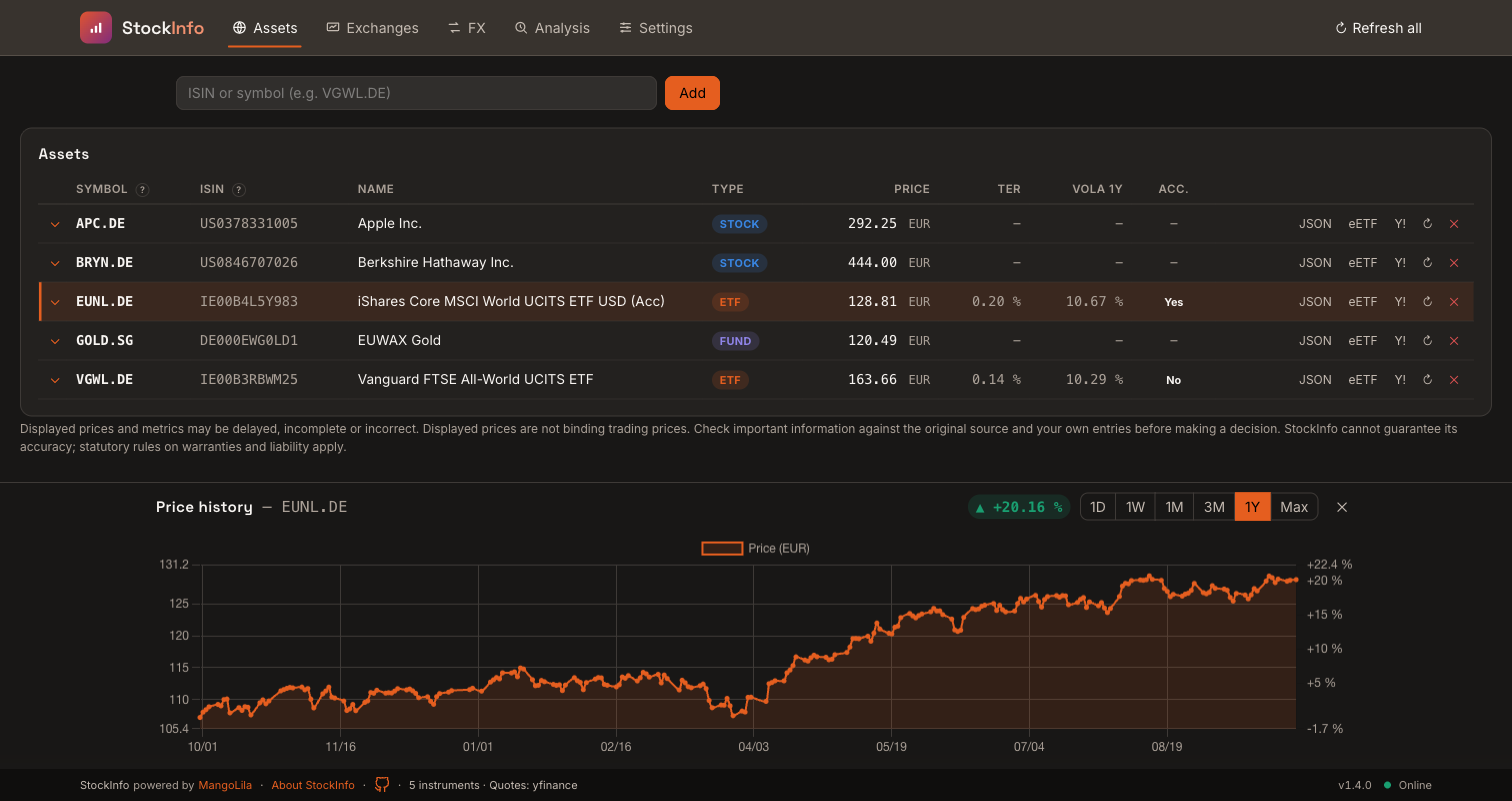
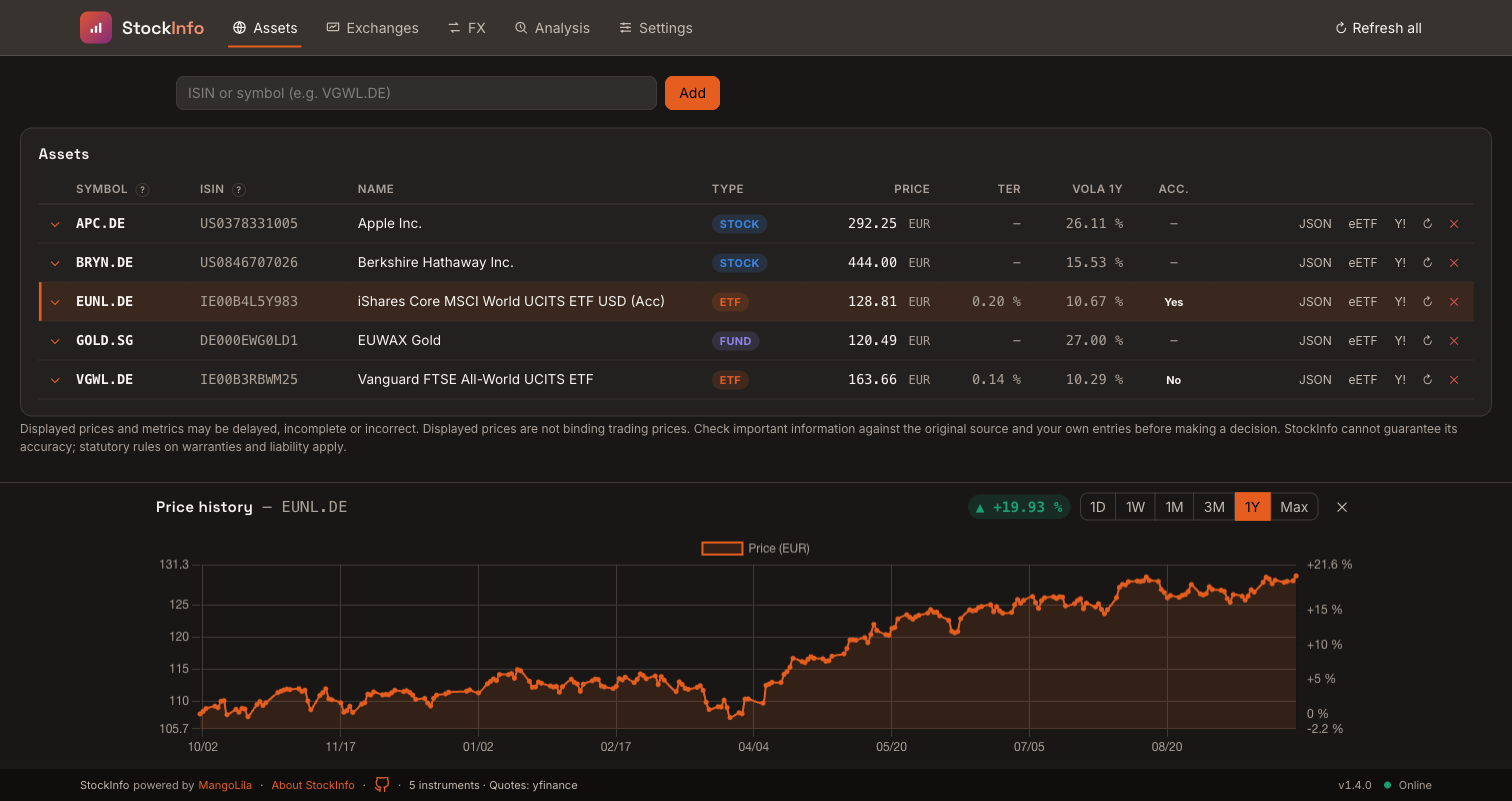
feat(details): berechnete Volatilitaet fuer alle Gattungen deklarieren
StockInfo deklariert volatility selbst (Quelle calculated, alle Gattungen, listed und pair) nach den Plugins; justETF behaelt bei ETFs den Vorrang. Aktien und Fonds zeigen die berechnete Volatilitaet in Tabelle und Detailbereich. Neues dashboard.png (T-89).

diff --git a/tests/test_calculated_metrics.py b/tests/test_calculated_metrics.py
@@ -1,0 +1,77 @@
+"""Die berechnete Volatilität gilt für alle Gattungen, nicht nur für ETFs.
+
+StockInfo berechnet die Volatilität aus den Tageskursen jedes Instruments.
+Angezeigt wird ein Detailwert aber nur, wenn eine Deklaration ihn für Gattung
+und Identitätsart freigibt. Bisher deklarierte nur justETF `volatility`, und
+nur für ETFs und ETCs; bei Aktien und Fonds blieb der Wert unsichtbar.
+"""
+
+import pytest
+
+from app import detail_store
+from app.config import get_settings
+from app.container import get_sources_config
+from app.db import init_db
+from app.repository import QuoteRepository
+from app.services.quote_cache import CachedQuoteService
+from app.sources_registry import detail_definitions
+from tests.boundaries import empty_daily_sync
+from tests.test_quote_cache import FakeQuoteService, _now, _response
+
+
+@pytest.fixture
+def catalog() -> list:
+    return detail_definitions(get_sources_config(), get_settings())
+
+
+@pytest.fixture
+def repo(tmp_path, catalog) -> QuoteRepository:
+    path = str(tmp_path / "volatility.db")
+    init_db(path)
+    repository = QuoteRepository(path)
+    repository.detail_catalog(catalog)
+    return repository
+
+
+def _volatility(catalog: list):
+    return next(definition for definition in catalog if definition.name == "volatility")
+
+
+@pytest.mark.parametrize("instrument_type", ["stock", "fund", "etf", "etc", "crypto", "bond"])
+def test_volatilitaet_ist_fuer_jede_gattung_deklariert(catalog, instrument_type) -> None:
+    assert _volatility(catalog).applies(instrument_type, "listed")
+
+
+def test_justetf_steht_vor_der_berechnung(catalog) -> None:
+    """Bei ETFs gilt weiter justETFs Wert, die Berechnung füllt die Lücke."""
+    assert _volatility(catalog).sources == ["justetf", "calculated"]
+
+
+def _summary(repo: QuoteRepository, instrument_type: str) -> tuple[dict, int]:
+    response = _response(_now()).model_copy(update={"type": instrument_type})
+    saved = repo.save_quote(response)
+    service = CachedQuoteService(FakeQuoteService(response), repo, 6, empty_daily_sync(repo))
+    return service, saved.instrument_id
+
+
+def test_aktie_zeigt_die_berechnete_volatilitaet(repo) -> None:
+    service, instrument_id = _summary(repo, "stock")
+    repo.set_volatility(instrument_id, 26.11)
+
+    detail = service.get_instrument_summary(instrument_id)["details"]["volatility"]
+
+    assert detail["value"] == 26.11
+    assert detail["source"] == "calculated"
+
+
+def test_etf_zeigt_justetf_vor_der_berechnung(repo) -> None:
+    service, instrument_id = _summary(repo, "etf")
+    repo.set_volatility(instrument_id, 11.09)
+    with repo._connect() as connection:
+        detail_store.put_provider(connection, instrument_id, "volatility",
+                                  {"value": 10.67, "source": "justetf"})
+
+    detail = service.get_instrument_summary(instrument_id)["details"]["volatility"]
+
+    assert detail["value"] == 10.67
+    assert detail["source"] == "justetf"

diff --git a/app/calculated_metrics.py b/app/calculated_metrics.py
@@ -1,0 +1,34 @@
+"""Kennzahlen, die StockInfo selbst berechnet, als Detailfeld-Deklaration.
+
+Die Volatilität entsteht aus den gespeicherten Tageskursen, für jedes
+Instrument mit Kursen (`quote_cache._save_fresh_with_volatility`). Ein
+Detailwert erscheint aber nur, wenn eine Deklaration ihn für Gattung und
+Identitätsart freigibt. Diese Deklaration gehört zur Quelle der Berechnung,
+nicht zu einem Plugin. `sources_registry.detail_definitions` hängt sie nach
+den Plugins an; bei mehreren Werten gilt deshalb zuerst der Plugin-Wert
+(justETF bei ETFs), sonst der berechnete.
+"""
+
+from stockinfo_plugin import FieldSpec, Unit
+
+from app.providers.base import INSTRUMENT_TYPES
+
+CALCULATED_SOURCE = "calculated"
+"""Quellname gespeicherter berechneter Werte; muss zur Deklaration passen."""
+
+
+class CalculatedMetrics:
+    """Deklariert die selbst berechneten Kennzahlen im Detailkatalog."""
+
+    name = CALCULATED_SOURCE
+    SUPPORTED_TYPES = frozenset(INSTRUMENT_TYPES)
+    SUPPORTED_KINDS = frozenset({"listed", "pair"})
+    FIELDS = (
+        FieldSpec(
+            "volatility",
+            kind="number",
+            unit=Unit.PERCENT,
+            label_en="Volatility (1y)",
+            label_de="Volatilität (1 Jahr)",
+        ),
+    )

diff --git a/app/sources_registry.py b/app/sources_registry.py
@@ -23,6 +23,7 @@ from types import SimpleNamespace
 import structlog
 from stockinfo_plugin.exchanges import validate_exchanges
 
+from app.calculated_metrics import CalculatedMetrics
 from app.details import definitions_for, merge_definitions
 from app.exchange_catalog import prepare_catalog, reset_catalog
 from app.plugin_adapters import (
@@ -44,9 +45,13 @@ _DETAIL_SCHEMAS: dict[str, list] = {}
 
 
 def detail_definitions(config, settings) -> list:
-    """Validiertes Profilschema, auch bei einer vorübergehend kranken Quelle."""
+    """Validiertes Profilschema, auch bei einer vorübergehend kranken Quelle.
+
+    Die selbst berechneten Kennzahlen kommen nach den Plugins, damit ein
+    Plugin-Wert bei gleichem Feld Vorrang behält.
+    """
     build_chain("etf_meta", config, settings)
-    return merge_definitions(_DETAIL_SCHEMAS.values())
+    return merge_definitions([*_DETAIL_SCHEMAS.values(), definitions_for(CalculatedMetrics())])
 
 
 logger = structlog.get_logger()

diff --git a/app/repository.py b/app/repository.py
@@ -15,6 +15,7 @@ from dataclasses import dataclass
 import structlog
 
 from app import detail_store
+from app.calculated_metrics import CALCULATED_SOURCE
 from app.db import get_connection
 from app.exchanges import canonical_identity, identity_from_symbol
 from app.models import (
@@ -632,7 +633,7 @@ class QuoteRepository:
         """Berechnete Volatilität ist ebenfalls ein generischer Quellenwert."""
         with self._connect() as connection:
             detail_store.put_provider(connection, instrument_id, 'volatility',
-                {'value': volatility, 'source': 'calculated'})
+                {'value': volatility, 'source': CALCULATED_SOURCE})
 
     def delete_by_symbol(self, symbol: str) -> bool:
         """Löscht **ein** Instrument (und seine Quotes via Cascade) per Symbol.

diff --git a/docs/plugin-authors.md b/docs/plugin-authors.md
@@ -624,6 +624,12 @@ the schema. `generation_id` is a persisted UUID from the same database.
 Cache the field catalog under `(generation_id, core_version, details_version)`;
 fetch `/fields` again to discover a change.
 
+StockInfo itself declares `volatility` under the source name `calculated`, for
+all instrument types with the identity kinds `listed` and `pair`, because it
+computes that value from the stored daily closes. Host declarations come after all plugins, so `sources`
+reads for example `["justetf", "calculated"]`: when a plugin delivers the same
+field, the plugin value wins; otherwise the computed value fills the gap.
+
 `GET /instrument-types` sends that same UUID in `StockInfo-Generation`,
 alongside `Cache-Control: no-store`. This is not a type-catalog version.
 The general generation protocol is still unavailable: there is no
